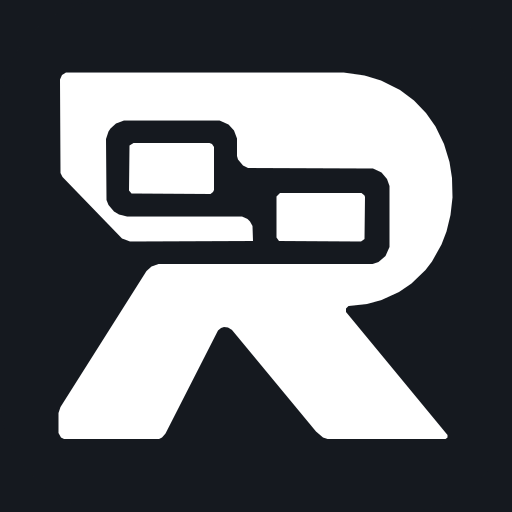
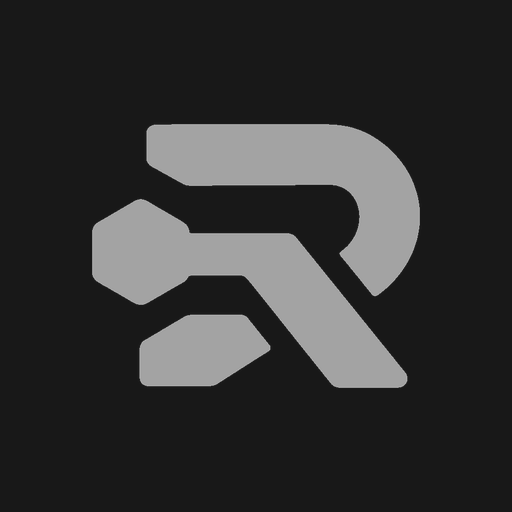
release: ReMCP 0.2.154 Gray v2 brand and OpenAI listing metadata (#73)

diff --git a/packages/runtime/CHANGELOG.md b/packages/runtime/CHANGELOG.md
@@ -1,5 +1,10 @@
 # Changelog
 
+## 0.2.154 — 2026-10-17
+
+**ReMCP Gray v2 brand parity release.** The runtime tool contract remains at 83 operations with unchanged permissions and I/O semantics. The coordinated public client and OpenAI submission assets receive the owner-provided gray identity.
+
+
 ## 0.2.153 — 2026-10-17
 
 - Split document, diagnostics, Wayland portal input and libei sender into bounded modules with compatible exports.
